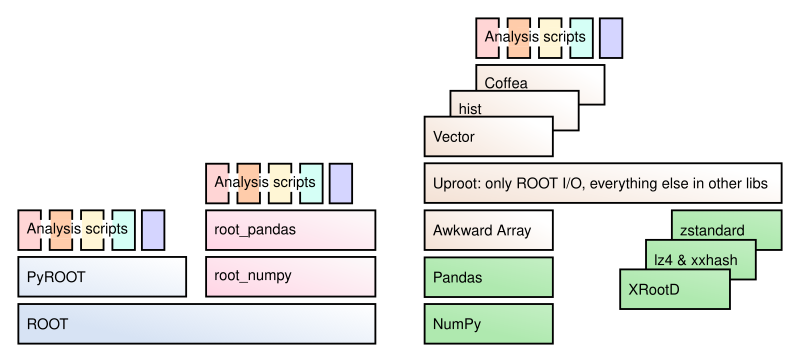
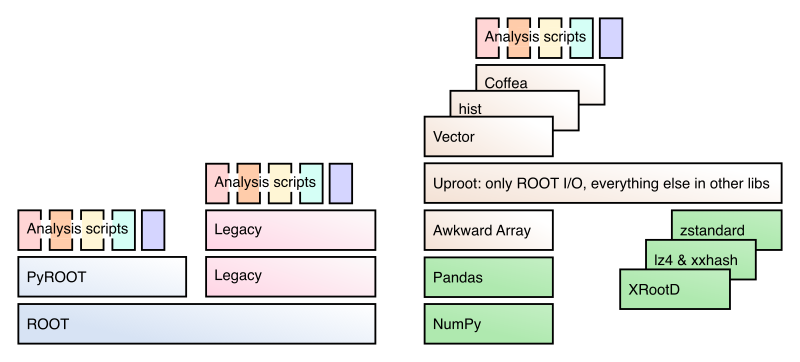
fix: stale diagram, dead badge, moved links and untitled admonitions (#104)
* fix: regenerate abstraction-layers.png from its SVG

PR #95 replaced root_numpy and root_pandas with "Legacy" in
abstraction-layers.svg, but the PNG was never regenerated and it is the
PNG that the lessons embed. The published page therefore still showed the
two deprecated names that PR set out to remove.

Rendered from the current SVG with rsvg-convert at the original 800x362.

Assisted-by: claude-code:claude-opus-5[1m]

* fix: correct the alt text on the fastjet logo

The jet-clustering section labelled the fastjet logo "particle", carried
over from the Particle section just above it.

Assisted-by: claude-code:claude-opus-5[1m]

* fix: point the build badge at the deploy workflow

The badge referenced the pages-build-deployment workflow, which has not
run since the site moved to deploy.yml and actions/deploy-pages, so it
rendered no status at all. It now tracks the workflow that actually
builds and publishes the book.

Assisted-by: claude-code:claude-opus-5[1m]

* ci: restore pre-commit coverage lost in the Jupyter Book migration

end-of-file-fixer and trailing-whitespace were still filtered on
`^(_episodes|code|README.md|setup.md)`, but _episodes/ and code/ were
deleted when the lessons moved to Jupyter Book in #78. The two hooks had
therefore been checking only two files for the last year.

Both now run repo-wide, with the centrally maintained .github/config.yml
and .github/stale.yml excluded so that the blueprint in the maintenance
[…]

diff --git a/skhep-tutorial/07-scaling-up.md b/skhep-tutorial/07-scaling-up.md
@@ -20,14 +20,14 @@ However, the [Coffea project](https://github.com/CoffeaTeam) ([documentation](ht
 - iminuit [GitHub](https://github.com/scikit-hep/iminuit), [documentation](https://iminuit.readthedocs.io)
 - zfit [GitHub](https://github.com/zfit/zfit), [documentation](https://zfit.readthedocs.io)
 - Vector [GitHub](https://github.com/scikit-hep/vector), [documentation](https://vector.readthedocs.io)
-- Particle [GitHub](https://github.com/scikit-hep/particle), [documentation](https://github.com/scikit-hep/particle/blob/master/notebooks/ParticleDemo.ipynb)
+- Particle [GitHub](https://github.com/scikit-hep/particle), [documentation](https://github.com/scikit-hep/particle/blob/main/notebooks/ParticleDemo.ipynb)
 - hepunits [GitHub](https://github.com/scikit-hep/hepunits)
 - fastjet [GitHub](https://github.com/scikit-hep/fastjet), [documentation](https://fastjet.readthedocs.io)
 - pyhf [GitHub](https://github.com/scikit-hep/pyhf), [documentation](https://pyhf.readthedocs.io)
 - hepstats [GitHub](https://github.com/scikit-hep/hepstats), [documentation](https://scikit-hep.org/hepstats)
 - cabinetry [GitHub](https://github.com/scikit-hep/cabinetry), [documentation](https://iris-hep.org/projects/cabinetry.html)
 - histoprint [GitHub](https://github.com/scikit-hep/histoprint)
-- decaylanguage [GitHub](https://github.com/scikit-hep/decaylanguage), [documentation](https://github.com/scikit-hep/decaylanguage/blob/master/notebooks/DecayLanguageDemo.ipynb)
+- decaylanguage [GitHub](https://github.com/scikit-hep/decaylanguage), [documentation](https://github.com/scikit-hep/decaylanguage/blob/main/notebooks/DecayLanguageDemo.ipynb)
 - GooFit [GitHub](https://github.com/GooFit/GooFit), [documentation](https://goofit.github.io/)
 - pyhepmc [GitHub](https://github.com/scikit-hep/pyhepmc)
 - pylhe [GitHub](https://github.com/scikit-hep/pylhe)
@@ -35,4 +35,3 @@ However, the [Coffea project](https://github.com/CoffeaTeam) ([documentation](ht
 and finally
 
 - cookie [GitHub](https://github.com/scientific-python/cookie), [documentation](https://learn.scientific-python.org/development), a template for making your own...
-

diff --git a/setup.md b/setup.md
@@ -59,7 +59,7 @@ Simply click the following button:
 
 ## After the tutorial
 
-If you want to install some of these packages on your own or your lab's computer, we recommend [Miniforge](https://github.com/conda-forge/miniforge) (or Anaconda/Miniconda with the [conda-forge channel](https://conda-forge.org/docs/user/introduction.html#how-can-i-install-packages-from-conda-forge)). This method also provides a way to [install ROOT in the same environment](https://github.com/conda-forge/root-feedstock#readme). To setup the environment use the [environment.yml](https://github.com/hsf-training/hsf-training-scikit-hep-webpage/blob/main/environment.yml) file in the [root](https://github.com/hsf-training/hsf-training-scikit-hep-webpage) of this repository as:
+If you want to install some of these packages on your own or your lab's computer, we recommend [Miniforge](https://github.com/conda-forge/miniforge) (or Anaconda/Miniconda with the [conda-forge channel](https://conda-forge.org/docs/user/introduction/)). This method also provides a way to [install ROOT in the same environment](https://github.com/conda-forge/root-feedstock#readme). To setup the environment use the [environment.yml](https://github.com/hsf-training/hsf-training-scikit-hep-webpage/blob/main/environment.yml) file in the [root](https://github.com/hsf-training/hsf-training-scikit-hep-webpage) of this repository as:
 
 ```bash
 conda env create -f environment.yml

diff --git a/CONTRIBUTING.md b/CONTRIBUTING.md
@@ -118,8 +118,8 @@ More information on how to contribute or how to contact us: [HSF training home][
 [hsf-training]: https://hepsoftwarefoundation.org/activities/training.html
 [email]: https://groups.google.com/g/hsf-training-wg
 [github]: https://github.com
-[github-flow]: https://guides.github.com/introduction/flow/
+[github-flow]: https://docs.github.com/en/get-started/using-github/github-flow
 [github-join]: https://github.com/join
-[how-contribute]: https://docs.github.com/en/get-started/quickstart/contributing-to-projects
-[issues]: https://guides.github.com/features/issues/
+[how-contribute]: https://docs.github.com/en/get-started/exploring-projects-on-github/contributing-to-a-project
+[issues]: https://docs.github.com/en/issues/tracking-your-work-with-issues/learning-about-issues/about-issues
 [hsf-training-gfis]: https://github.com/issues?q=is%3Aissue+is%3Aopen+archived%3Afalse+sort%3Aupdated-desc+label%3A%22good+first+issue%22+org%3Ahsf-training

diff --git a/README.md b/README.md
@@ -1,6 +1,6 @@
 # Scikit-HEP tutorial
 
-[![Build status](https://github.com/hsf-training/hsf-training-scikit-hep-webpage/actions/workflows/pages/pages-build-deployment/badge.svg)](https://github.com/hsf-training/hsf-training-scikit-hep-webpage/actions/workflows/pages/pages-build-deployment)
+[![Build and Deploy Book](https://github.com/hsf-training/hsf-training-scikit-hep-webpage/actions/workflows/deploy.yml/badge.svg)](https://github.com/hsf-training/hsf-training-scikit-hep-webpage/actions/workflows/deploy.yml)
 [![HSF Training Center](https://img.shields.io/badge/HSF%20Training%20Center-browse-ff69b4)](https://hepsoftwarefoundation.org/training/curriculum.html)
 
 This is a tutorial on [Scikit-HEP](https://scikit-hep.org), a collection of packages for particle physics analysis in Python.

diff --git a/LICENSE.md b/LICENSE.md
@@ -71,5 +71,5 @@ WITH THE SOFTWARE OR THE USE OR OTHER DEALINGS IN THE SOFTWARE.
 
 [cc-by-human]: https://creativecommons.org/licenses/by/4.0/
 [cc-by-legal]: https://creativecommons.org/licenses/by/4.0/legalcode
-[mit-license]: https://opensource.org/licenses/mit-license.html
+[mit-license]: https://opensource.org/license/mit
 [osi]: https://opensource.org
